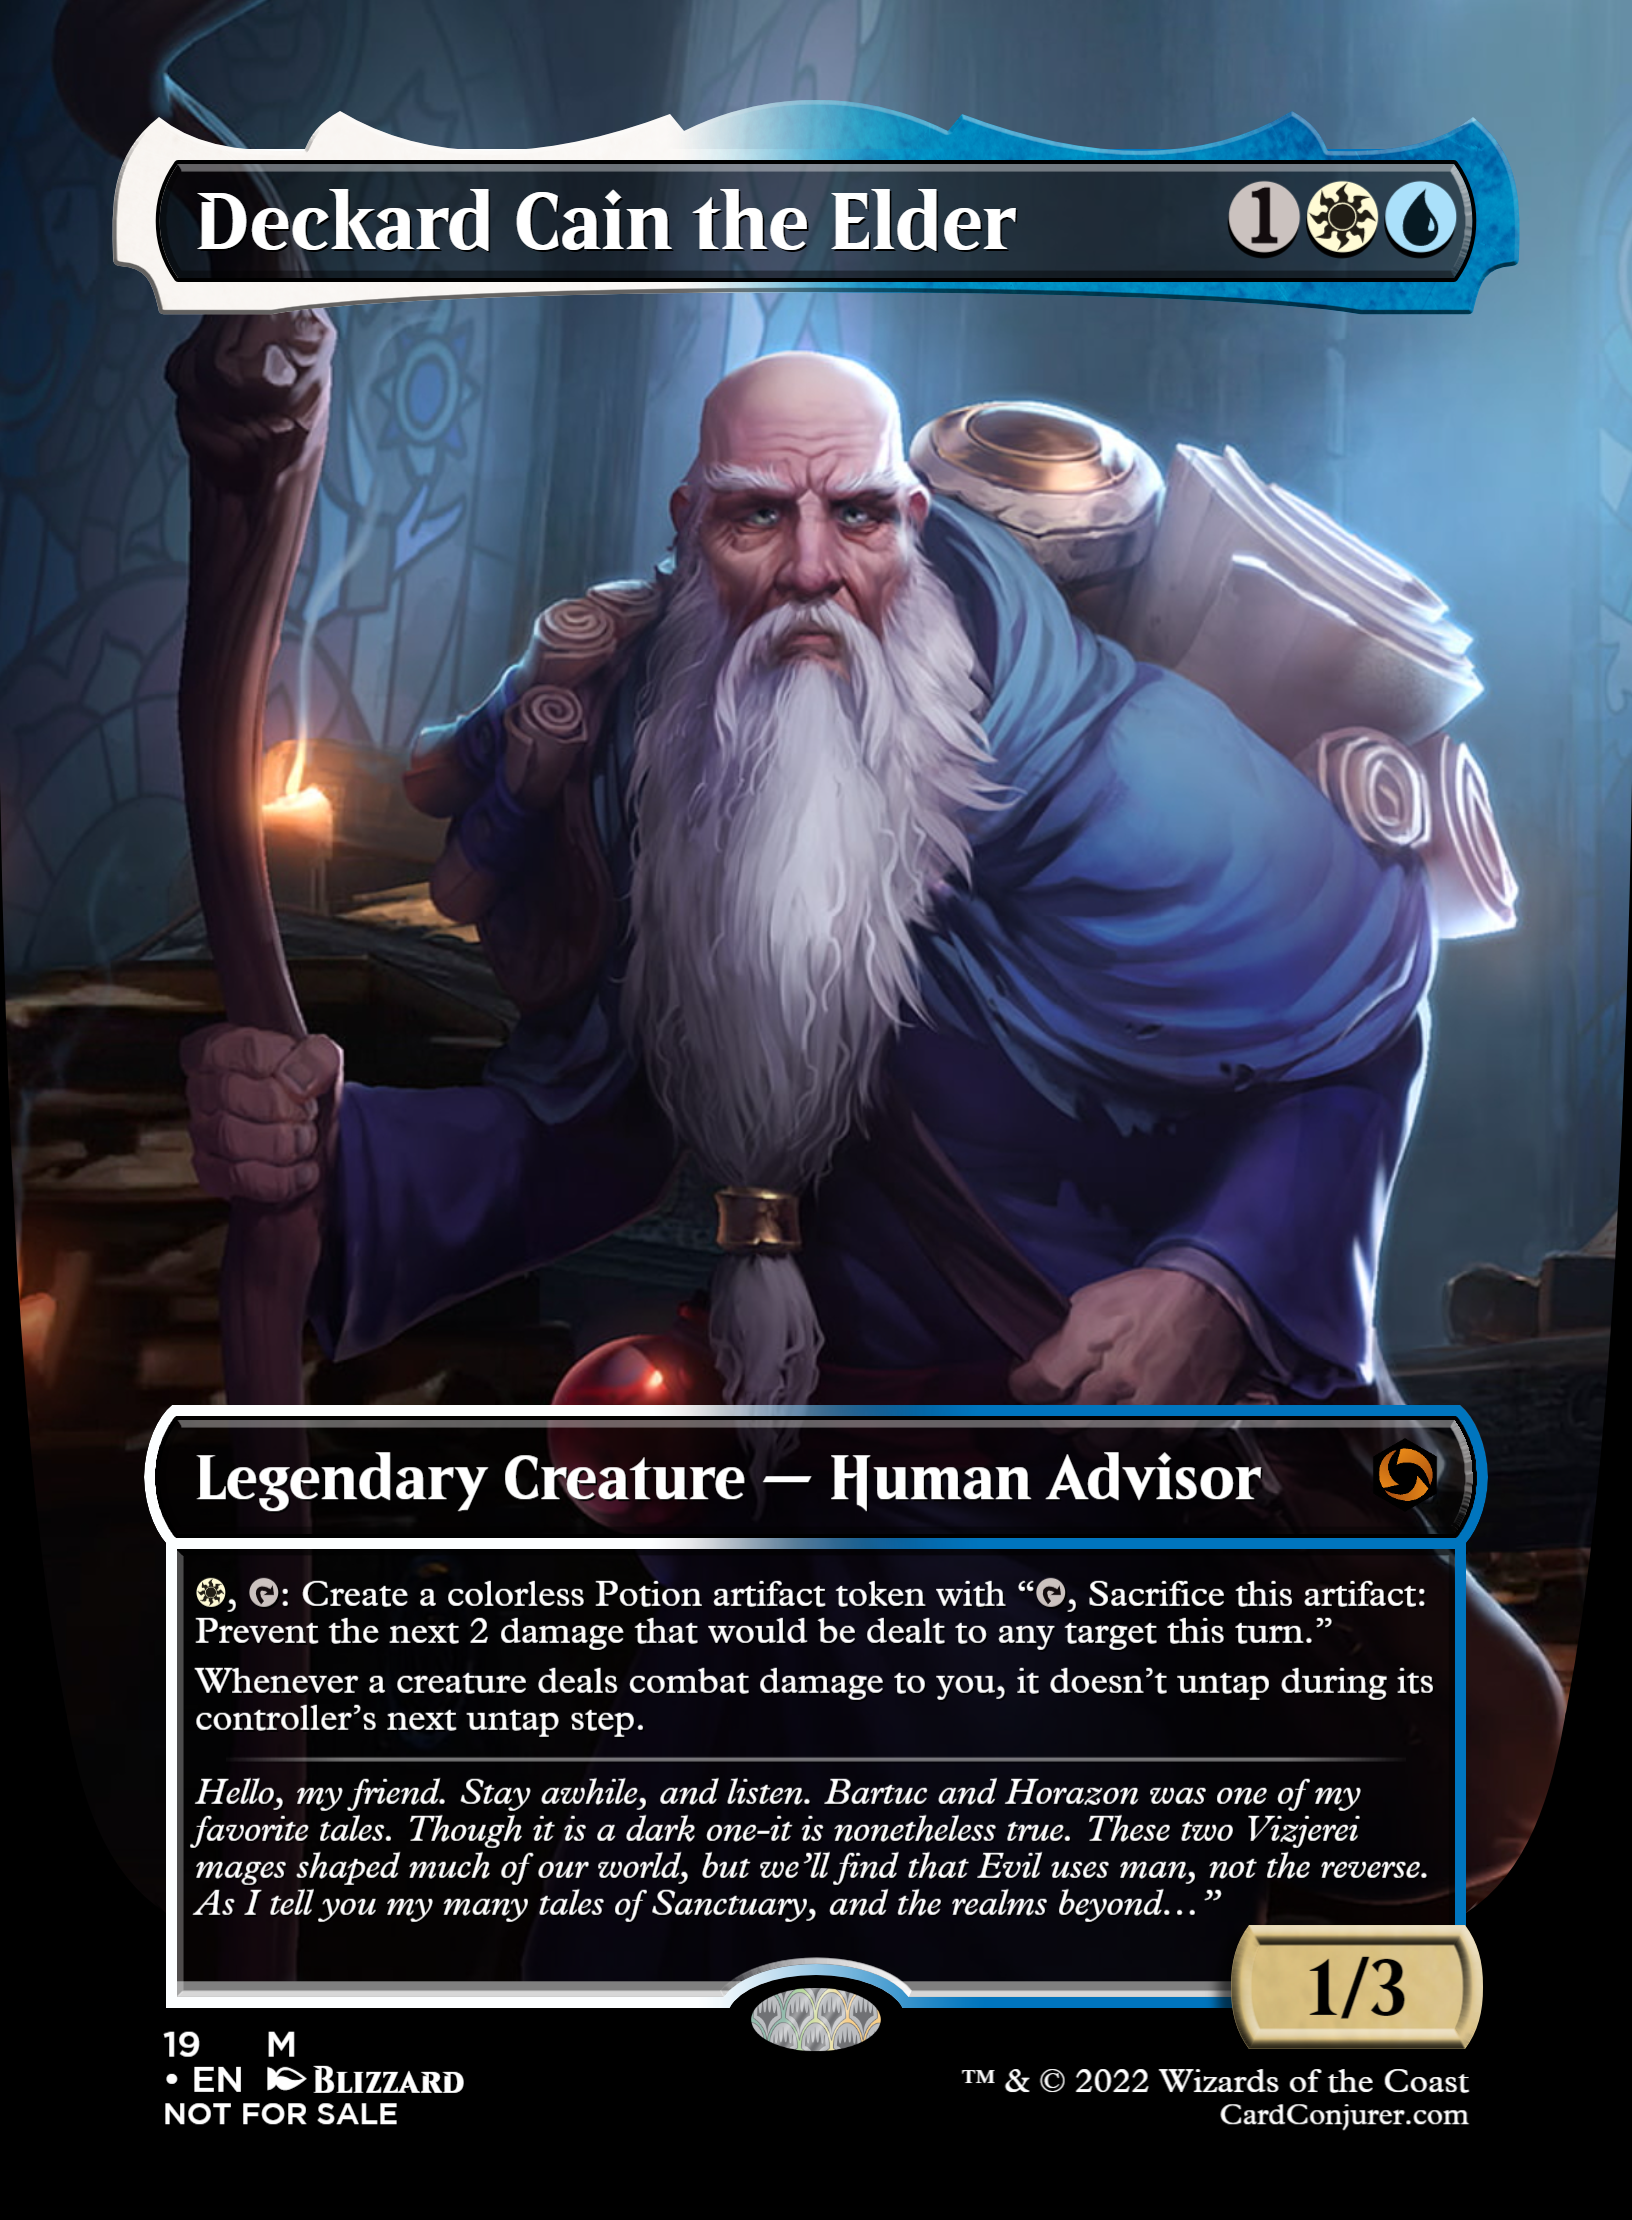
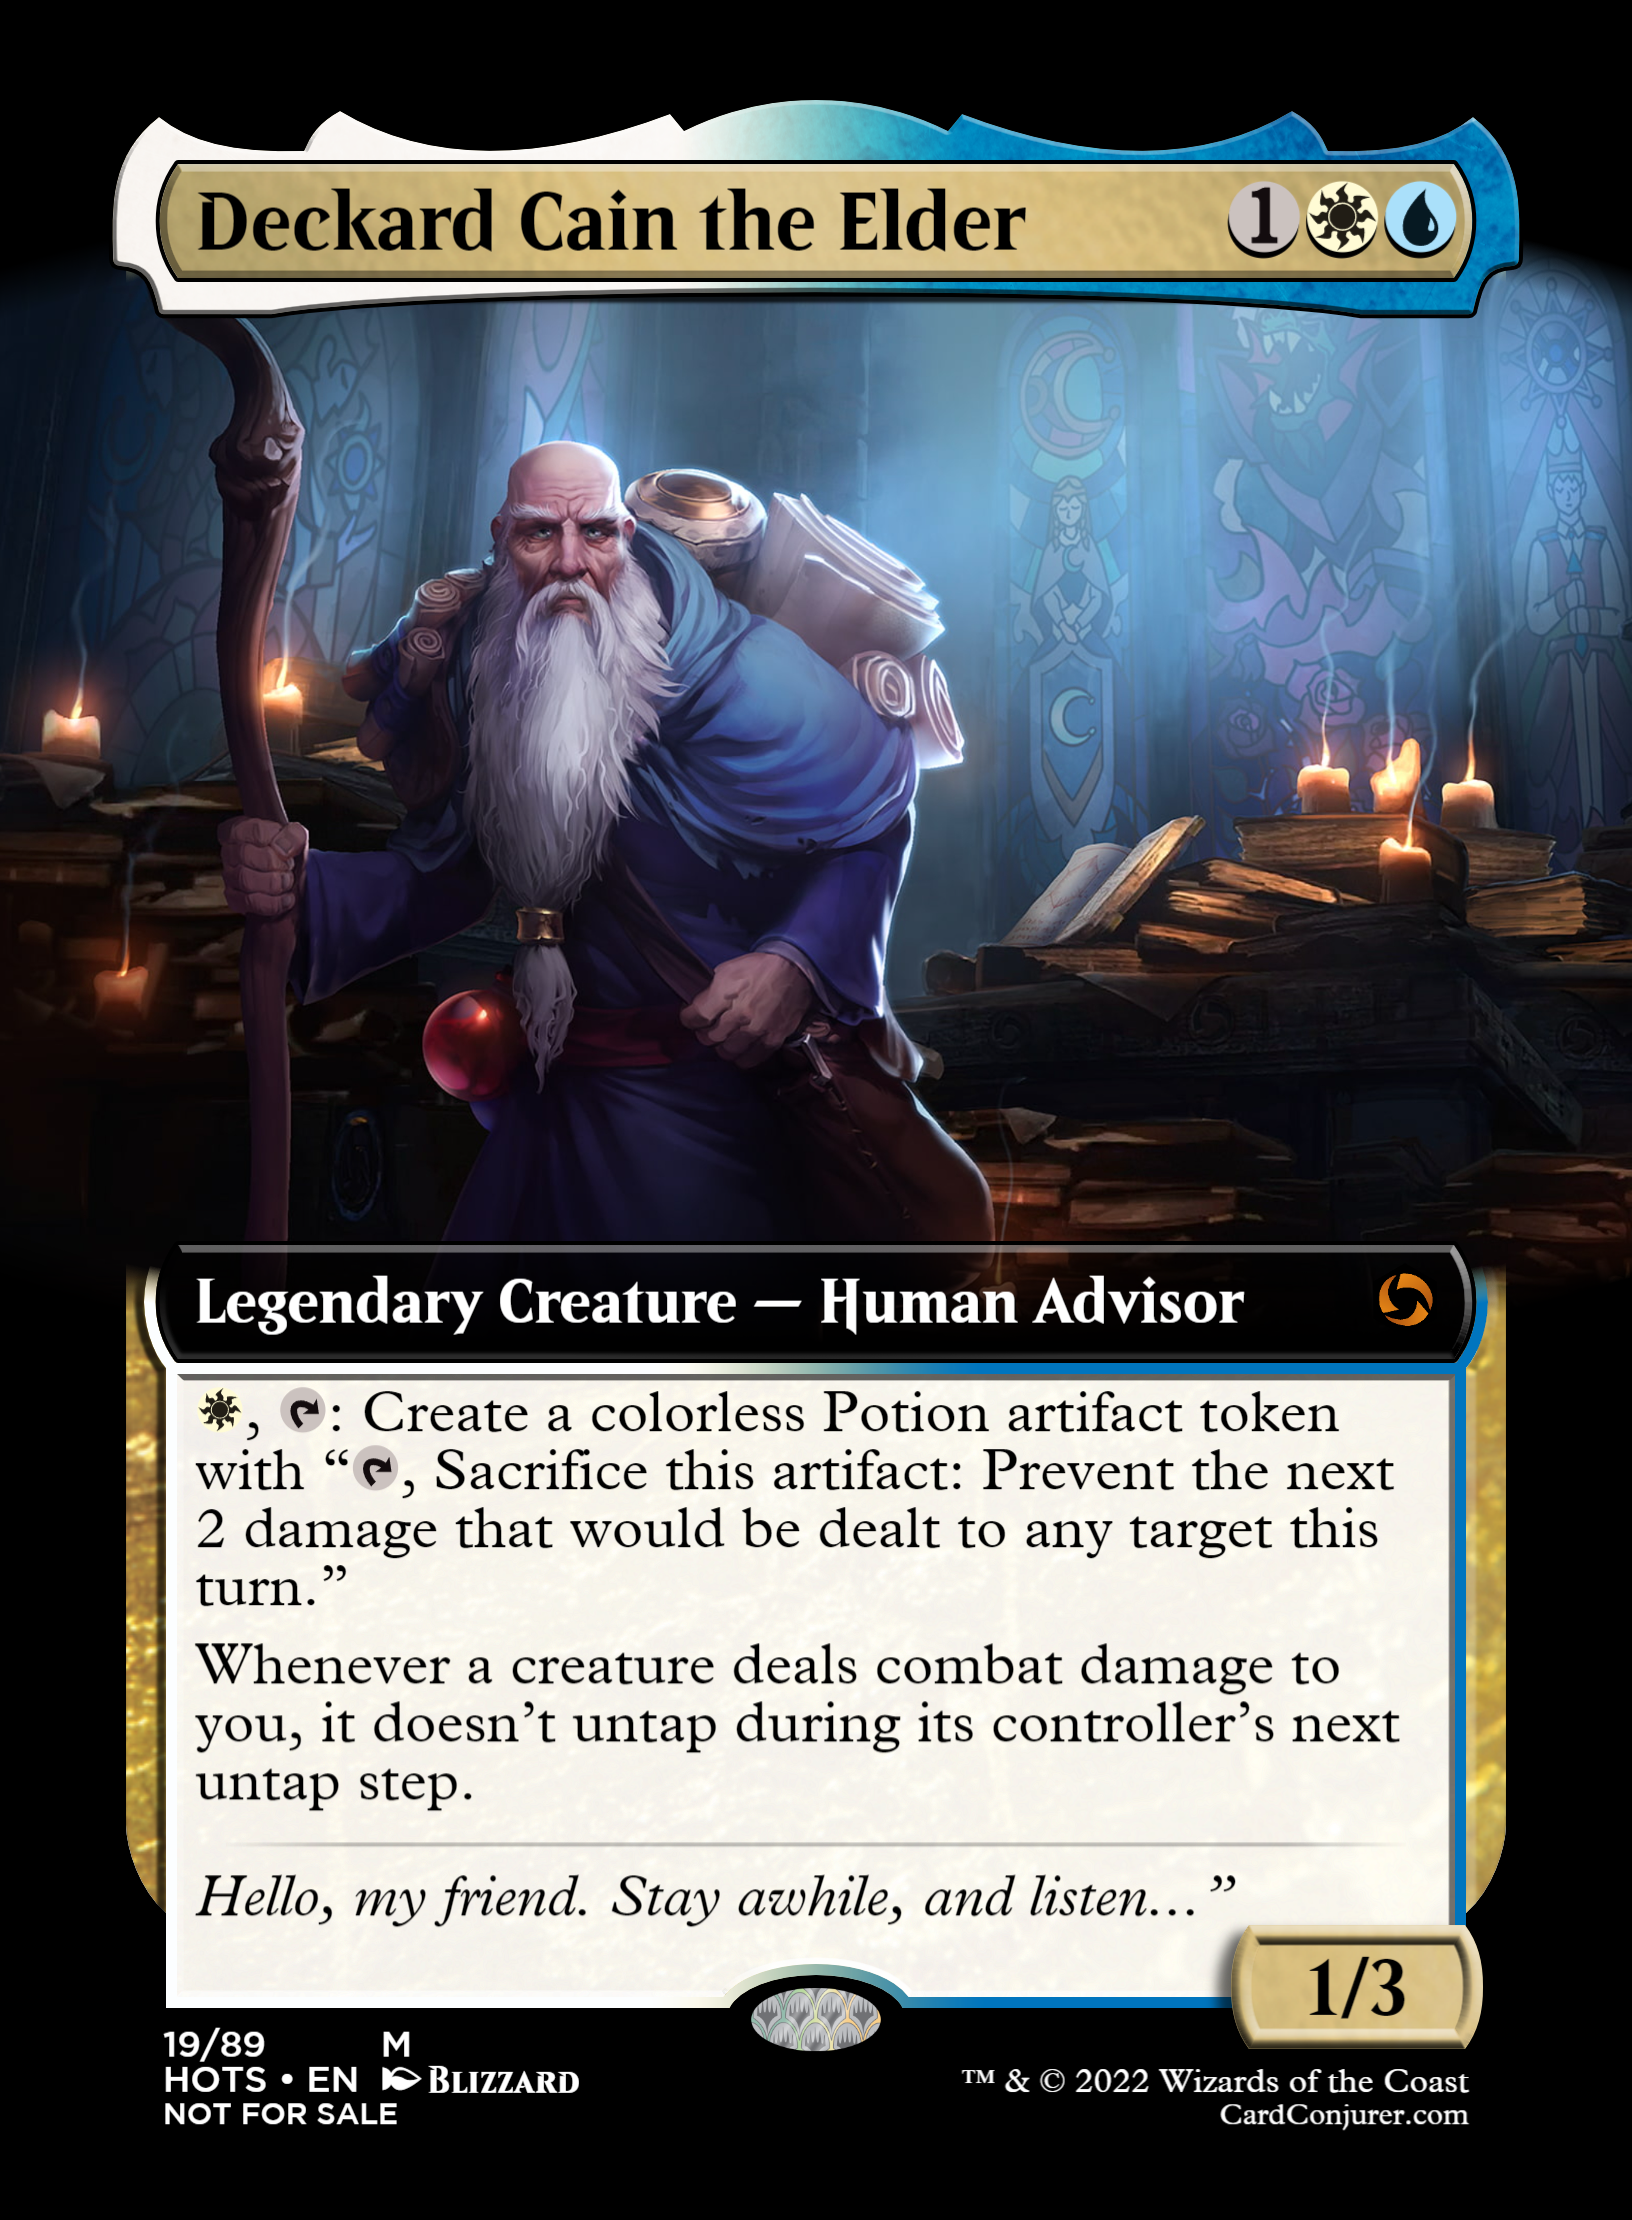
Added new hero cards and updated the image of all

diff --git a/index.html b/index.html
@@ -16,12 +16,47 @@
     <h1>Where HotS meets MTG</h1>
 
     <p>Homebrew project that combines “Heroes of the Storms” and “Magic: the Gathering”.</p>
-    <p>We are a group of friends that share this passion for Blizzards' "Heroes of the Storm" and Wizard's "Magic: The Gathering" games.</p>
-    <p>We took inspiration on a Reddit <a href="https://www.reddit.com/r/heroesofthestorm/comments/e640fb/every_hero_in_magic_the_gathering_form/">post</a> by the user /u/WORDSALADSANDWICH, in which they shared his version of every HotS hero in MTG universe. Our motivation was to make real cards to be used in a casual multiplayer commander table.</p>
-    <p>This is a work in progress still. We are reviewing each card, tweaking some unbalanced ones and refactoring others. Also, we are reviewing the aesthetics and updating them to a high-quality version.</p>
+    <h2>Background</h2>
+    <p>We are a group of friends that share this passion for Blizzards' "Heroes of the Storm" and Wizard's "Magic: The
+        Gathering" games.</p>
+    <p>We took inspiration on a Reddit <a
+            href="https://www.reddit.com/r/heroesofthestorm/comments/e640fb/every_hero_in_magic_the_gathering_form/">post</a>
+        by the user /u/WORDSALADSANDWICH, in which they shared his version of every HotS hero in MTG universe. Our
+        motivation was to make real cards to be used in a casual multiplayer commander table.</p>
+    <p>This is a work in progress still. We are reviewing each card, tweaking some unbalanced ones and refactoring
+        others. Also, we are reviewing the aesthetics and updating them to a high-quality version.</p>
     <p>Enjoy!</p>
 
     <p>Project on <a href="https://github.com/hotsmtg/where-hots-meets-mtg">github</a>.</p>
+
+    <h2>Commanders</h2>
+
+    <!--
+    <button type="button" class="collapsible">Ana</button>
+    <div class="content">
+        <div class="crop-container">
+            <div class="cropped-card" style="--imageUrl:url(&quot;resources/images/heroes/004-ana.png&quot;);"></div>
+        </div>
+    </div>
+
+
+    <script>
+        var coll = document.getElementsByClassName("collapsible");
+        var i;
+
+        for (i = 0; i < coll.length; i++) {
+            coll[i].addEventListener("click", function () {
+                this.classList.toggle("active");
+                var content = this.nextElementSibling;
+                if (content.style.display === "block") {
+                    content.style.display = "none";
+                } else {
+                    content.style.display = "block";
+                }
+            });
+        }
+    </script>
+    -->
 
     <script>
 
@@ -29,10 +64,12 @@
         for (let i = 0; i < commanders.length; i++) {
 
             document.body.appendChild(cropToCard(commanders[i].front));
-            
+
         }
 
     </script>
+
+
 
 </body>
 

diff --git a/main.css b/main.css
@@ -2,18 +2,64 @@
 /* from https://dirask.com/posts/CSS-how-to-crop-clip-and-resize-image-aDZdmj */
 .crop-container {
     border: 1px solid black;
-    width: 447.828px;           /* 477.828pxpx - 30px (right_edge  - left_edge) */
-    height: 620px;              /* 650px - 30px (bottom_edge - top_edge ) */
+    width: 447.828px;
+    /* 477.828pxpx - 30px (right_edge  - left_edge) */
+    height: 620px;
+    /* 650px - 30px (bottom_edge - top_edge ) */
     overflow: hidden;
     border-radius: 13px
 }
 
-.cropped-card{
+.cropped-card {
     /*      -left_edge      -top_edge */
-    margin: -15px   0   0   -15px;
-    width:  477.828px;          /* image_scaled_width  */
-    height: 650px;              /* image_scaled_height */
-    background: var(--imageUrl) 
-    /*              image_scaled_width  image_scaled_height */
-    no-repeat 0  /  477.828px           650px;
+    margin: -15px 0 0 -15px;
+    width: 477.828px;
+    /* image_scaled_width  */
+    height: 650px;
+    /* image_scaled_height */
+    background: var(--imageUrl)
+        /*              image_scaled_width  image_scaled_height */
+        no-repeat 0 / 477.828px 650px;
+}
+
+
+/* Style the button that is used to open and close the collapsible content */
+.collapsible {
+    background-color: rgb(87, 87, 87);
+    color: rgb(255, 255, 255);
+    cursor: pointer;
+    padding: 18px;
+    width: 100%;
+    border: none;
+    text-align: left;
+    outline: none;
+    font-size: 15px;
+}
+
+/* Add a background color to the button if it is clicked on (add the .active class with JS), and when you move the mouse over it (hover) */
+.active,
+.collapsible:hover {
+    background-color: rgb(56, 56, 56);
+}
+
+/* Style the collapsible content. Note: hidden by default */
+.content {
+    padding: 0 18px;
+    display: none;
+    overflow: hidden;
+    background-color: #f1f1f1;
+}
+
+.collapsible:after {
+    content: '\02795';
+    /* Unicode character for "plus" sign (+) */
+    font-size: 13px;
+    color: white;
+    float: right;
+    margin-left: 5px;
+}
+
+.active:after {
+    content: "\2796";
+    /* Unicode character for "minus" sign (-) */
 }

diff --git a/commanders.js b/commanders.js
@@ -1,5 +1,10 @@
 const commanders = [
     {
+        id: "002",
+        name: "Alaarak",
+        front: "resources/images/heroes/002-alarak.png"
+    },
+    {
         id: "004",
         name: "Ana",
         mana: "W R B",
@@ -36,6 +41,11 @@ const commanders = [
         id: "023",
         name: "Falstad",
         front: "resources/images/heroes/023-falstad.png"
+    },
+    {
+        id: "024",
+        name: "Fenix",
+        front: "resources/images/heroes/024-fenix.png"
     },
     {
         id: "025",
@@ -108,9 +118,54 @@ const commanders = [
         front: "resources/images/heroes/072-butcher.png"
     },
     {
+        id: "076",
+        name: "Tychus",
+        front: "resources/images/heroes/076-tychus.png"
+    },
+    {
+        id: "077",
+        name: "Tyrael",
+        front: "resources/images/heroes/077-tyrael.png"
+    },
+    {
+        id: "078",
+        name: "Tyrande",
+        front: "resources/images/heroes/078-tyrande.png"
+    },
+    {
+        id: "081",
+        name: "Valla",
+        front: "resources/images/heroes/081-valla.png"
+    },
+    {
         id: "082",
         name: "Varian",
         front: "resources/images/heroes/082-varian.png"
+    },
+    {
+        id: "083",
+        name: "Whitemane",
+        front: "resources/images/heroes/083-whitemane.png"
+    },
+    {
+        id: "084",
+        name: "Xul",
+        front: "resources/images/heroes/084-xul.png"
+    },
+    {
+        id: "086",
+        name: "Zagara",
+        front: "resources/images/heroes/086-zagara.png"
+    },
+    {
+        id: "087",
+        name: "Zarya",
+        front: "resources/images/heroes/087-zarya.png"
+    },
+    {
+        id: "088",
+        name: "Zeratul",
+        front: "resources/images/heroes/088-zeratul.png"
     },
     {
         id: "089",
